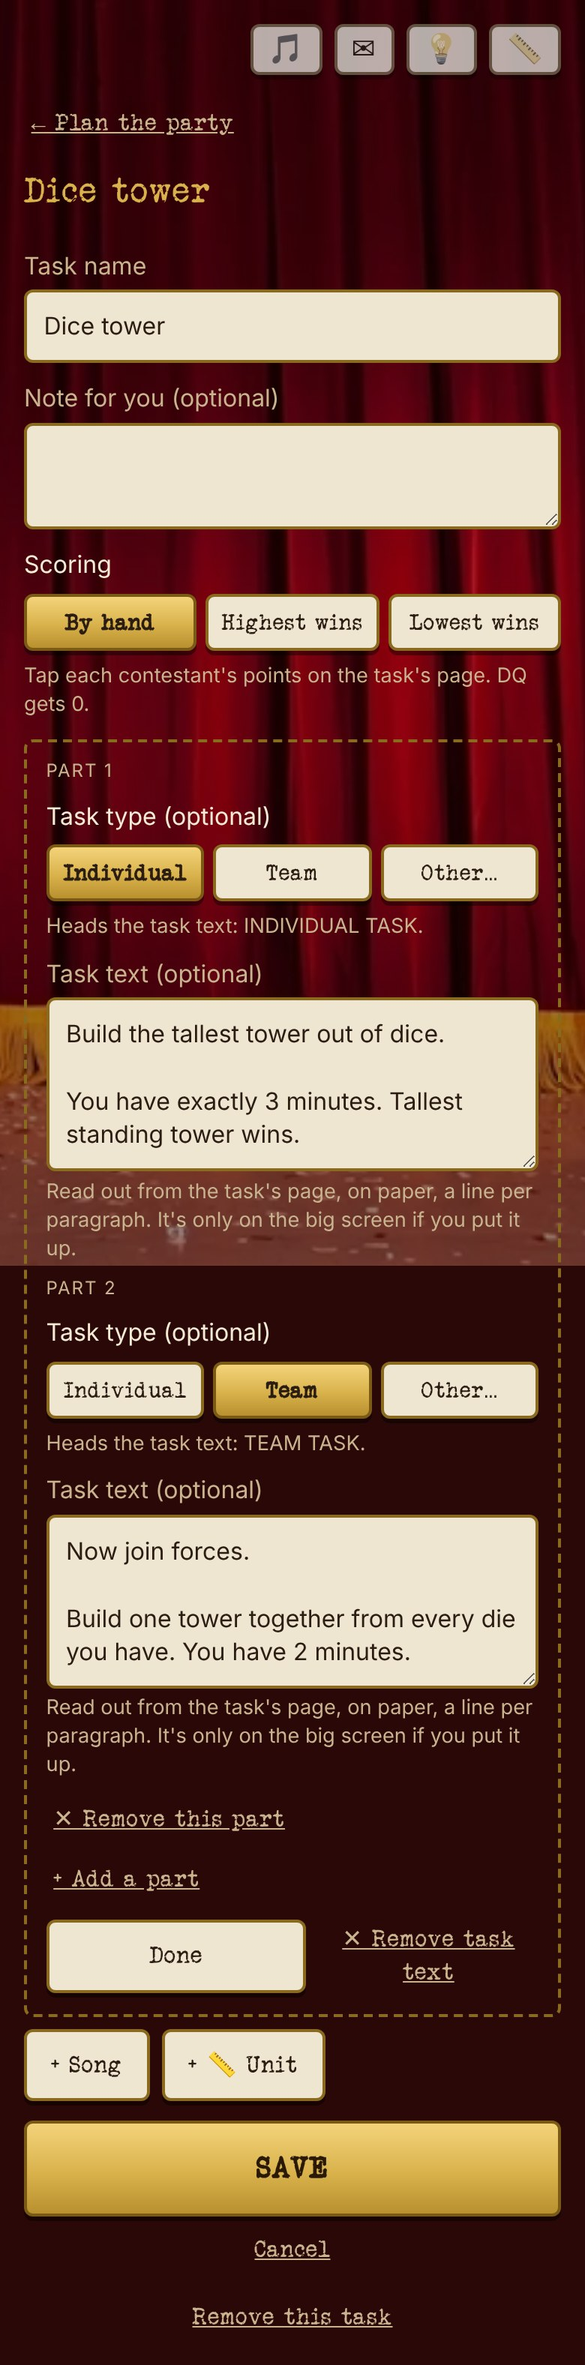
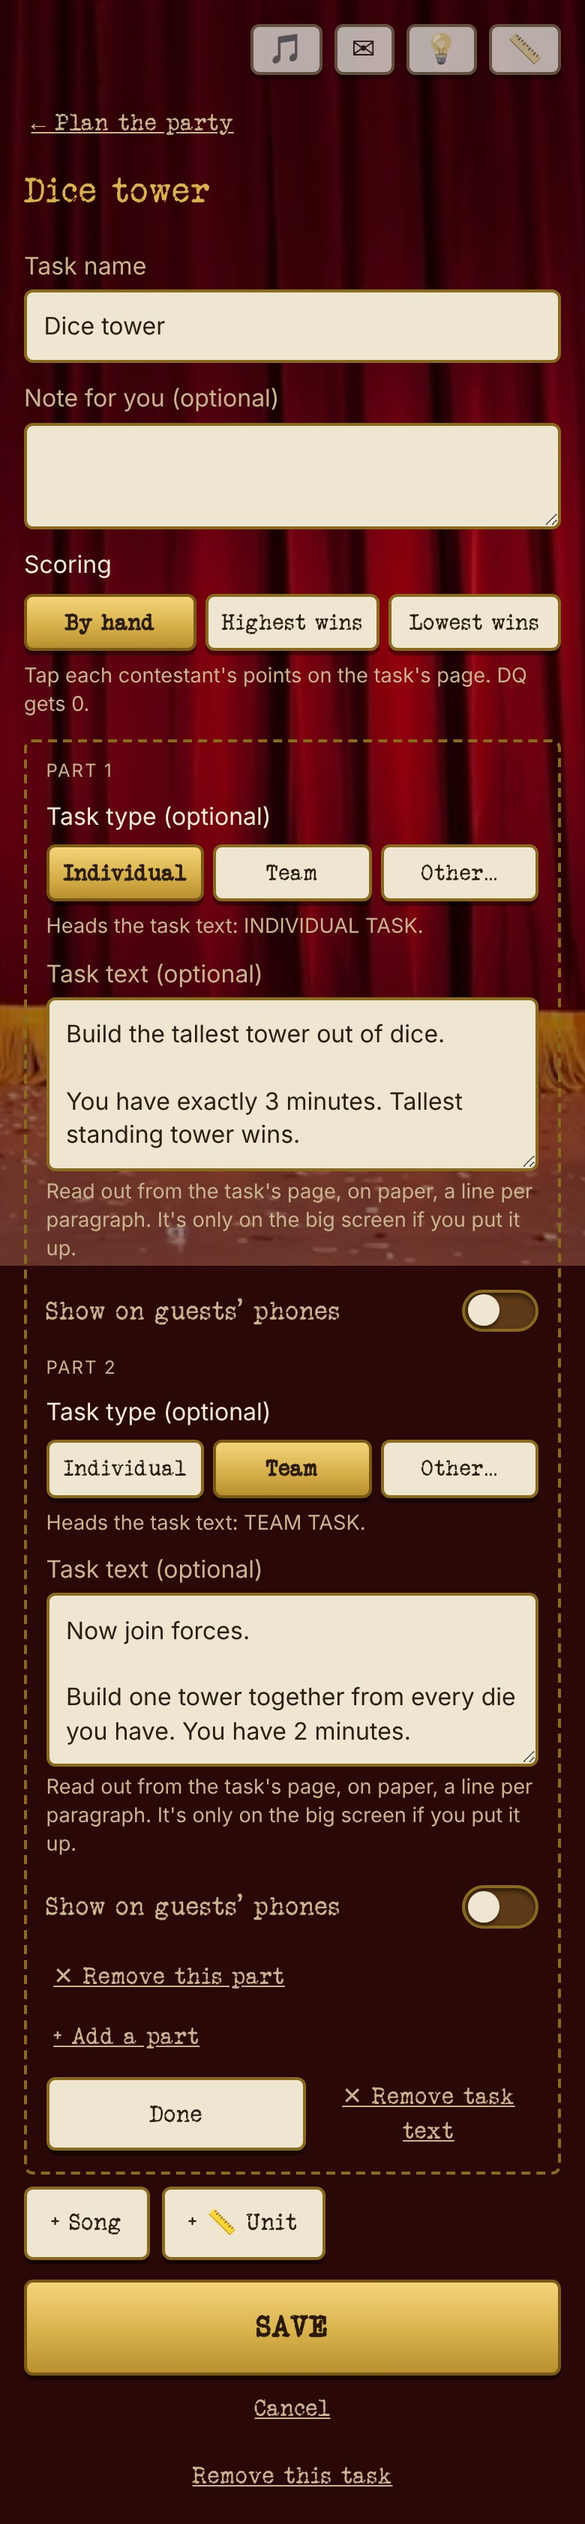
Task parts: phones show only the parts the host switched on
A "Show on guests' phones" switch under each part, off by default, on every task but the tiebreaker. Photos, Headshot and Prize still always show their first part; Headshot and Prize can't have more.

Claude-Session: https://claude.ai/code/session_017EZXwv2HsaVFnzxRVSaLaw

diff --git a/src/scoreboard/TaskEditPage.tsx b/src/scoreboard/TaskEditPage.tsx
@@ -5,7 +5,8 @@ import { SongField } from "../SongStrip";
 import type { ScoreboardTask, Session } from "../types";
 import { editTask, editTiebreaker, enterPoints, removeTask, setScoring, type TaskEntry } from "./data";
 import { isMeasured, overLine } from "./measured";
-import { asParts, gameName, scored, titleOf } from "./tasks";
+import { Toggle } from "../Toggle";
+import { ALWAYS_ON_PHONES, ONE_PART, asParts, gameName, scored, titleOf } from "./tasks";
 import { TaskTextField, TaskTypeField, TIEBREAKER_TYPE, typeOf } from "./TaskText";
 
 /** A task's words are at most this many parts (what the database rules allow). */
@@ -30,6 +31,11 @@ function ScoringField({ scoring, onChange }: { scoring: ScoreboardTask["scoring"
     </div>
   );
 }
+
+/** "Show on guests' phones" under a part's text: off unless the host switches it on, so phones show task text only when asked. */
+const PhonesToggle = ({ on, onChange }: { on: boolean; onChange: (on: boolean) => void }) => (
+  <div className="toggles"><Toggle label="Show on guests' phones" on={on} onChange={onChange} /></div>
+);
 
 /**
  * An optional part of a task: once it's set it's one summary line with "Change", which opens just that part in
@@ -72,7 +78,8 @@ export function TaskEditPage({ code, session, id, onBack }: { code: string; sess
   const [type, setType] = useState(task?.type ?? "");
   const [text, setText] = useState(task?.text ?? "");
   // Parts 2, 3…: each with a key of its own, so removing one in the middle doesn't hand its boxes to the next.
-  const [parts, setParts] = useState(() => asParts(task?.parts).map((p, k) => ({ k, type: p.type ?? "", text: p.text })));
+  const [parts, setParts] = useState(() => asParts(task?.parts).map((p, k) => ({ k, type: p.type ?? "", text: p.text, guests: !!p.guests })));
+  const [guests, setGuests] = useState(!!task?.guests);
   const nextKey = useRef(parts.length);
   const [unit, setUnit] = useState(() => draftOf(task?.unit));
   const [scoring, setScoringDraft] = useState(task?.scoring);
@@ -89,7 +96,7 @@ export function TaskEditPage({ code, session, id, onBack }: { code: string; sess
 
   const saved = unitOf(unit);
   const loud = unit.kind === "loudness";
-  const words = { type, text, parts: parts.map(({ type, text }) => ({ type, text })) };
+  const words = { type, text, guests, parts: parts.map(({ type, text, guests }) => ({ type, text, guests })) };
   const save = () => {
     if (tiebreaker) { void editTiebreaker(code, name, description, song, words); onBack(); return; }
     const rescored = !task.game && scoring !== task.scoring;
@@ -124,6 +131,8 @@ export function TaskEditPage({ code, session, id, onBack }: { code: string; sess
   const songAt = tracks.indexOf(song);
   const heading = tiebreaker ? `${type || TIEBREAKER_TYPE}`.toUpperCase() : typeOf({ type, game: task.game }).toUpperCase();
   const firstLine = text.split("\n").map((l) => l.trim()).find(Boolean) ?? "";
+  // No phone ever shows the tiebreaker.
+  const phoneSwitch = !tiebreaker;
   const typed = parts.filter((p) => p.text.trim());
   const count = (text.trim() ? 1 : 0) + typed.length;
   const headings = [...(text.trim() ? [heading] : []), ...typed.map((p) => p.type.trim().toUpperCase())].filter(Boolean);
@@ -150,7 +159,7 @@ export function TaskEditPage({ code, session, id, onBack }: { code: string; sess
 
       <div className="extras">
         <Extra label="Task text" open={open === "text"} onOpen={() => setOpen("text")} onClose={() => setOpen(undefined)}
-          onClear={clear(() => { setText(""); setType(""); setParts([]); })}
+          onClear={clear(() => { setText(""); setType(""); setGuests(false); setParts([]); })}
           summary={count > 1
             ? <>Task text<span className="muted small"> · {count} parts · {headings.join(", ") || "no headings"}</span></>
             : text.trim() ? <>Task text<span className="muted small"> · {heading || "no heading"} · {firstLine.length > 40 ? `${firstLine.slice(0, 40)}…` : firstLine}</span></> : undefined}>
@@ -158,17 +167,19 @@ export function TaskEditPage({ code, session, id, onBack }: { code: string; sess
             {parts.length > 0 && <p className="part-label">Part 1</p>}
             <TaskTypeField type={type} fallback={(tiebreaker ? TIEBREAKER_TYPE : typeOf({ game: task.game })) || undefined} onChange={setType} />
             <TaskTextField text={text} onChange={setText} />
+            {phoneSwitch && !(task.game && ALWAYS_ON_PHONES.includes(task.game)) && <PhonesToggle on={guests} onChange={setGuests} />}
           </div>
           {parts.map((p, i) => (
             <div className="sb-part" key={p.k}>
               <p className="part-label">Part {i + 2}</p>
               <TaskTypeField type={p.type} onChange={(t) => setParts(parts.map((x) => x.k === p.k ? { ...x, type: t } : x))} />
               <TaskTextField text={p.text} onChange={(t) => setParts(parts.map((x) => x.k === p.k ? { ...x, text: t } : x))} />
+              {phoneSwitch && <PhonesToggle on={p.guests} onChange={(on) => setParts(parts.map((x) => x.k === p.k ? { ...x, guests: on } : x))} />}
               <button type="button" className="link" onClick={() => setParts(parts.filter((x) => x.k !== p.k))}>✕ Remove this part</button>
             </div>
           ))}
-          {parts.length + 1 < MAX_PARTS && (
-            <button type="button" className="link" onClick={() => setParts([...parts, { k: nextKey.current++, type: "", text: "" }])}>+ Add a part</button>
+          {parts.length + 1 < MAX_PARTS && !(task.game && ONE_PART.includes(task.game)) && (
+            <button type="button" className="link" onClick={() => setParts([...parts, { k: nextKey.current++, type: "", text: "", guests: false }])}>+ Add a part</button>
           )}
         </Extra>
         <Extra label="Song" open={open === "song"} onOpen={() => setOpen("song")} onClose={() => setOpen(undefined)} onClear={clear(() => setSong(""))}

diff --git a/src/setupImport.ts b/src/setupImport.ts
@@ -22,7 +22,7 @@ const str = (v: unknown, max: number) => typeof v === "string" && v.trim() ? v.t
 /** The parts after a task's first: each with text, and its type if it has one, at most as many as the database rules allow. */
 const MAX_PARTS = 9;
 const partsOf = (v: unknown): TaskPart[] => Array.isArray(v)
-  ? v.filter(obj).flatMap((p) => str(p.text, 5000) ? [{ ...(str(p.type, 30) && { type: str(p.type, 30) }), text: str(p.text, 5000)! }] : []).slice(0, MAX_PARTS)
+  ? v.filter(obj).flatMap((p) => str(p.text, 5000) ? [{ ...(str(p.type, 30) && { type: str(p.type, 30) }), text: str(p.text, 5000)!, ...(p.guests === true && { guests: true as const }) }] : []).slice(0, MAX_PARTS)
   : [];
 
 /** The words a task or the tiebreaker carries, kept to the lengths the database rules allow. */
@@ -32,6 +32,7 @@ function wordsOf(raw: Record<string, unknown>) {
     ...(str(raw.type, 30) && { type: str(raw.type, 30) }),
     ...(str(raw.text, 5000) && { text: str(raw.text, 5000) }),
     ...(partsOf(raw.parts).length > 0 && { parts: partsOf(raw.parts) }),
+    ...(raw.guests === true && { guests: true as const }),
     ...(str(raw.note, 600) && { note: str(raw.note, 600) }),
     ...(str(raw.song, 300) && { song: str(raw.song, 300) }),
   };
@@ -104,9 +105,9 @@ export interface ImportPlan {
 const hasPoints = (t: ScoreboardTask) => ["scores", "results", "given", "bonus", "dq"].some((k) => Object.keys((t as unknown as Record<string, object | undefined>)[k] ?? {}).length > 0);
 
 /** The party fields a file task sets: each is written, or cleared when the file doesn't have it. Points and results are never among them. */
-const FIELDS = ["name", "game", "type", "text", "parts", "description", "song", "scoring", "unit", "dqOver", "dqStays"] as const;
+const FIELDS = ["name", "game", "type", "text", "parts", "guests", "description", "song", "scoring", "unit", "dqOver", "dqStays"] as const;
 const fieldsOf = (t: SetupTask): Record<(typeof FIELDS)[number], unknown> => ({
-  name: t.name, game: t.game, type: t.type, text: t.text, parts: t.parts, description: t.note, song: t.song, scoring: t.scoring, unit: t.unit, dqOver: t.dqOver, dqStays: t.dqStays,
+  name: t.name, game: t.game, type: t.type, text: t.text, parts: t.parts, guests: t.guests, description: t.note, song: t.song, scoring: t.scoring, unit: t.unit, dqOver: t.dqOver, dqStays: t.dqStays,
 });
 const sameValue = (a: unknown, b: unknown) => JSON.stringify(a ?? null) === JSON.stringify(b ?? null);
 
@@ -179,7 +180,7 @@ export function importWrites(setup: Setup, session: Session, secret: SecretTasks
     board["tiebreaker/song"] = tb.song ?? null;
     board["tiebreaker/type"] = tb.type ?? null;
     board["tiebreaker/text"] = tb.text ?? null;
-    board["tiebreaker/parts"] = tb.parts ?? null;
+    board["tiebreaker/parts"] = tb.parts?.map(({ guests: _, ...p }) => p) ?? null; // no phone ever shows the tiebreaker
   }
   const light = setup.light && { trigger: setup.light.trigger ?? null, mode: setup.light.mode ?? null };
   let secretPatch: Record<string, unknown> | undefined;

diff --git a/src/scoreboard/data.ts b/src/scoreboard/data.ts
@@ -108,15 +108,15 @@ export async function addKeptGame(code: string, session: Session, game: "light" 
   await enterPoints(code, { ...board, tasks: { ...board?.tasks, [id]: added } }, session.display?.step === "scoreboard", id, entry);
 }
 
-/** What a task's ✎ saves as its words: its type and the text the host reads out, then the parts after the first. Empty removes them. */
-export interface TaskWords { type: string; text: string; parts?: { type: string; text: string }[] }
-function wordsOf({ type, text, parts = [] }: TaskWords) {
+/** What a task's ✎ saves as its words: its type and the text the host reads out, whether phones show it, then the parts after the first. Empty removes them. */
+export interface TaskWords { type: string; text: string; guests?: boolean; parts?: { type: string; text: string; guests?: boolean }[] }
+function wordsOf({ type, text, guests, parts = [] }: TaskWords) {
   // A part with no text is no part; if the first has none, the next one is the first.
-  const all = [{ type, text }, ...parts].map((p) => ({ type: p.type.trim(), text: p.text.trim() })).filter((p) => p.text);
+  const all = [{ type, text, guests }, ...parts].map((p) => ({ type: p.type.trim(), text: p.text.trim(), guests: !!p.guests })).filter((p) => p.text);
   const [first, ...rest] = all;
   return {
-    type: first?.type || null, text: first?.text || null,
-    parts: rest.length ? rest.map((p) => ({ ...(p.type && { type: p.type }), text: p.text })) : null,
+    type: first?.type || null, text: first?.text || null, guests: first?.guests ? true : null,
+    parts: rest.length ? rest.map((p) => ({ ...(p.type && { type: p.type }), text: p.text, ...(p.guests && { guests: true }) })) : null,
   };
 }
 

diff --git a/docs/guest-shots/shots.tsx b/docs/guest-shots/shots.tsx
@@ -64,6 +64,11 @@ function build() {
     text: "Build the tallest tower out of dice.\n\nYou have exactly 3 minutes. Tallest standing tower wins.",
     parts: [{ type: "Team", text: "Now join forces.\n\nBuild one tower together from every die you have. You have 2 minutes." }],
   };
+  // A Photos task with three parts: the phone shows the first, and the second because the host switched it on, never the third.
+  if (shot === "task-photos-parts") tasks.t2 = {
+    ...(tasks.t2 as object),
+    parts: [{ text: "Bonus: do it again, but with a friend in the shot.", guests: true }, { text: "Third part, for the host to read out only." }],
+  };
   const session: Record<string, unknown> = {
     hostUid: "host", name: "Halloween party",
     players: Object.fromEntries(ids.filter((id) => checkedIn.has(id)).map((id, i) => [id, { name: people[id], joinedAt: i, contestant: id }])),
@@ -82,6 +87,7 @@ function build() {
     case "home-prize-ask": picked(); break;
     case "home-waiting": picked(); q.set("later", "1"); break;
     case "task-photos": picked(); q.set("later", "1"); task("photos"); g.photos!.task = "t2"; break;
+    case "task-photos-parts": picked(); q.set("later", "1"); task("photos"); g.photos!.task = "t2"; break;
     case "task-photos-sent": picked(); q.set("later", "1"); task("photos"); g.photos!.task = "t2"; (g.photos!.media as Record<string, unknown>)[who] = { photo: pic("👑", "#3a2a1c") }; break;
     case "prize-check": picked(); q.set("pick", "1"); break;
     case "noisemaster-up": picked(); q.set("later", "1"); task("noisemaster"); g.noisemaster = { round: { player: who, phrase: ["I", "am", "the", "Noisemaster"], startedAt: 1 } }; break;

diff --git a/src/scoreboard/tasks.ts b/src/scoreboard/tasks.ts
@@ -8,6 +8,21 @@ export const sorted = <T extends { order: number }>(items: Record<string, T> | u
 /** A task's parts after the first. The database hands them back as an object when it keeps them as one (a list is only kept as one while it has no gaps). */
 export const asParts = (v: unknown): TaskPart[] => (Array.isArray(v) ? v : Object.values((v ?? {}) as Record<string, TaskPart>)) as TaskPart[];
 
+/**
+ * What a guest's phone may show of a task's words, a quote each. Photos, Headshot and Prize always show part 1 (Headshot
+ * and Prize never have more; Photos' later parts only once switched on). Any other task shows only the parts the host switched on.
+ */
+export function guestWords(t: ScoreboardTask | undefined): string[] {
+  if (!t) return [];
+  const always = !!t.game && ALWAYS_ON_PHONES.includes(t.game);
+  return [{ text: t.text, on: always || !!t.guests }, ...asParts(t.parts).map((p) => ({ text: p.text, on: !!p.guests }))]
+    .flatMap((p) => (p.on && p.text?.trim() ? [p.text.trim()] : []));
+}
+
+/** App games whose words a phone always shows, so there's no phones switch on part 1. Headshot and Prize never have a second part. */
+export const ALWAYS_ON_PHONES: readonly TaskGame[] = ["photos", "headshots", "prize"];
+export const ONE_PART: readonly TaskGame[] = ["headshots", "prize"];
+
 /** An app game's name on the task list. */
 export const LIGHT = "💡 The light";
 export const gameName = (g: TaskGame) => g === "light" ? LIGHT : GAMES[g]?.name ?? g;

diff --git a/src/guest.tsx b/src/guest.tsx
@@ -1,6 +1,6 @@
 import { createContext, useContext, type CSSProperties, type ReactNode } from "react";
 import { GAMES } from "./games";
-import { activeTaskId, sorted } from "./scoreboard/tasks";
+import { activeTaskId, guestWords, sorted } from "./scoreboard/tasks";
 import type { Session } from "./types";
 
 /**
@@ -12,8 +12,8 @@ import type { Session } from "./types";
 
 /** What a game's card needs from the page around it. */
 export interface GuestFrame {
-  /** The task that's on, as its card is headed: "Task 2 of 8 · Photos", its name, and its words where they belong on a phone. */
-  task?: { label: string; title?: string; text?: string };
+  /** The task that's on, as its card is headed: "Task 2 of 8 · Photos", its name, and its words (a quote each) where they belong on a phone. */
+  task?: { label: string; title?: string; words: string[] };
   /** How many things are left on the guest's to-do list. */
   left: number;
 }
@@ -38,7 +38,7 @@ export function taskOn(session: Session): GuestFrame["task"] {
   return {
     label: i >= 0 ? `Task ${i + 1} of ${tasks.length} · ${game.name}` : game.name,
     title: name ? name[0]!.toUpperCase() + name.slice(1) : undefined,
-    text: t?.text?.trim() || undefined,
+    words: guestWords(t),
   };
 }
 

diff --git a/src/types.ts b/src/types.ts
@@ -237,7 +237,7 @@ export interface ScoreboardContestant {
 }
 
 /** One more part of a task's words after the first: its own type (so its own heading) and the text the host reads out. */
-export interface TaskPart { type?: string; text: string }
+export interface TaskPart { type?: string; text: string; guests?: true }
 
 /** A task on the party's scoreboard: a live task the host names, or an app game. Never tied to a game's own data. */
 export interface ScoreboardTask {
@@ -256,6 +256,8 @@ export interface ScoreboardTask {
   text?: string;
   /** Parts 2, 3… of the words, each with its own type. `type` and `text` above are part 1. Only the host remote ever says "part". */
   parts?: TaskPart[];
+  /** Part 1 of the words is switched on for guests' phones (a task's parts are off there until the host switches them on). */
+  guests?: true;
   /**
    * Points by contestant id: what counts, worked out from `given`, `results` and `dq` by `workOut`, plus any `bonus`, and
    * saved with them. A contestant with none gets nothing for this task.

diff --git a/src/setupFile.ts b/src/setupFile.ts
@@ -17,6 +17,8 @@ export interface SetupTask {
   text?: string;
   /** Parts 2, 3… of the words; `type` and `text` are part 1. */
   parts?: TaskPart[];
+  /** Part 1 is switched on for guests' phones. */
+  guests?: true;
   note?: string;
   song?: string;
   scoring?: "highest" | "lowest";
@@ -44,6 +46,7 @@ const taskOf = (t: ScoreboardTask): Omit<SetupTask, "id"> => ({
   ...(t.type && { type: t.type }),
   ...(t.text && { text: t.text }),
   ...(asParts(t.parts).length > 0 && { parts: asParts(t.parts) }),
+  ...(t.guests && { guests: true as const }),
   ...(t.description && { note: t.description }),
   ...(t.song && { song: t.song }),
   ...(t.scoring && { scoring: t.scoring }),

diff --git a/src/games/photos/PlayerView.tsx b/src/games/photos/PlayerView.tsx
@@ -30,7 +30,7 @@ export function PlayerView({ code, uid, session }: { code: string; uid: string; 
   const { task, left } = useGuest();
   const label = task?.label ?? "Photos";
   const title = task?.title ?? "Your photo";
-  const words = task?.text && <Quote text={task.text} />;
+  const words = task?.words.map((w, i) => <Quote key={i} text={w} />);
 
   // A phone that locks mid-upload can stall it.
   useKeepAwake(uploading);

diff --git a/docs/style-guide.md b/docs/style-guide.md
@@ -209,7 +209,7 @@ See: [guest-home-waiting.jpg](screens/guest-home-waiting.jpg), [guest-home-prize
   - **Points**, always open at the bottom (`Points.tsx`), and once everyone has points, gold "Done: back to Run of show →".
   A game that's not on the list uses the same page with no number and no points ("Not on the run of show, so it isn't scored"), and the tiebreaker's page has the same top, with the tied contestants under its title.
 - **The tiebreaker's bar** (`.sb-won-bar`): on the tiebreaker's page only, "Tap who won." and the tied contestants side by side sit in a burgundy bar with a 3px `--gold` top border, fixed to the bottom of the screen, so the winner is one tap away however far the story has scrolled. Tapping who won scrolls back up to gold "🎁 Show the prize haul · Sam" under the status line. Other tasks are scored after the reading, so they have no bar. See: [tiebreaker-host-text.jpg](screens/tiebreaker-host-text.jpg), [tiebreaker-host-text-won.jpg](screens/tiebreaker-host-text-won.jpg).
-- **Task type and text in ✎** (`TaskText.tsx`): under "Task text", "Task type (optional)" as `.choices` (Individual, Team, Other… for the host's own word) with a muted line spelling out the heading, then "Task text (optional)", a plain box that grows with what's pasted. See: [run-of-show-host-task-text-edit.jpg](screens/run-of-show-host-task-text-edit.jpg). A quiet **"+ Add a part"** link under the box adds another type and text, for the tiebreaker too (up to 10 parts). From the second part on, each part shows a small host-only label (`.part-label`: "PART 1", "PART 2", muted small capitals) and a quiet "✕ Remove this part"; a task with one part looks as it always did. Closed, the summary line counts them: "Task text · 2 parts · INDIVIDUAL, TEAM". The setup file keeps parts. See: [task-parts-edit.jpg](screens/task-parts-edit.jpg).
+- **Task type and text in ✎** (`TaskText.tsx`): under "Task text", "Task type (optional)" as `.choices` (Individual, Team, Other… for the host's own word) with a muted line spelling out the heading, then "Task text (optional)", a plain box that grows with what's pasted. See: [run-of-show-host-task-text-edit.jpg](screens/run-of-show-host-task-text-edit.jpg). A quiet **"+ Add a part"** link under the box adds another type and text, for the tiebreaker too (up to 10 parts). From the second part on, each part shows a small host-only label (`.part-label`: "PART 1", "PART 2", muted small capitals) and a quiet "✕ Remove this part"; a task with one part looks as it always did. Closed, the summary line counts them: "Task text · 2 parts · INDIVIDUAL, TEAM". Headshot and Prize never have a second part, so they have no "+ Add a part". **Phones rarely show task text**: under each part's text box a `<Toggle>` "Show on guests' phones" is off until the host switches it on, and a phone shows only the parts switched on, a quote each, never any other (the tiebreaker has no such switch: no phone shows it). Photos, Headshot and Prize always show their first part on a phone, so part 1 has no switch there; a second Photos part needs its own. The setup file keeps parts and their switches. See: [task-parts-edit.jpg](screens/task-parts-edit.jpg), [guest-task-photos-parts.jpg](screens/guest-task-photos-parts.jpg).
 - **Plan the party** (`Planning.tsx`): everything set up before the night, behind the link at the bottom of Run of show, in the order you'd do it. Not for use mid-show, so ✕ and ≡ are safe here.
   1. **The party** as a summary line (`PartySummary`): "Halloween party · portrait set · pin set · metric" with Change, which opens its name, portrait, host pin and "📏 Conversions in" (Metric · Imperial as `.choices.two`, metric by default, with a muted line saying what it changes) in place. See: [host-party-units.jpg](screens/host-party-units.jpg).
   2. `Tasks (N)`: `≡` (drag to reorder), the task's name (number, "· app game", the note in quotes, "5 contestants scored") and `✎`, which opens the task's own page. No ▶ Start: starting is Run of show's job. Under the list "+ Live task" and "+ App game" side by side, then the **tiebreaker as a summary line** (outside the running order) with its own ✎.

diff --git a/docs/screens/README.md b/docs/screens/README.md
@@ -22,6 +22,7 @@ Guest phone (`/play`, 390px wide), redrawn on 2026-10-18 in the host remote's la
 | `guest-home-waiting.jpg` | Nothing left to do: Sam's own name tag, "Put your phone away. People are starting to stare.", the to-do list with the prize "optional" |
 | `guest-task-photos.jpg` | A task on: "Task 2 of 8 · Photos", the task's words, the photo controls inside the card, "It's task time. Send your photo." |
 | `guest-task-photos-sent.jpg` | The receipt after sending: "✓ Submitted", the photo, the 🔒 line, "Photo sent. Put your phone away…" |
+| `guest-task-photos-parts.jpg` | A Photos task with three parts: the phone shows the first and the second (the host switched it on for phones), and never the third (2026-10-18) |
 | `guest-prize-photos.jpg` | "Your prize photos": the prize words, thumbnails with ≡ ✕ ★, the ★ line, gold "Submit 3 photos" |
 | `guest-noisemaster-up.jpg` | "You're up!": the phrase and the board in the card |
 | `main-noisemaster.jpg` | Noisemaster on the big screen mid-go: the words said so far as gold tiles, the red board with the last button lit green, the player's name, the clock, "2 of 4 words" and "1 restart" (2026-10-18) |
@@ -131,7 +132,7 @@ Scoreboard (taken on 2026-10-12, from the real components with made-up sessions;
 | `task-parts-host.jpg` | A task with two parts: "Dice tower" with a paper "Show part 1" over its Individual card and "Show part 2" over its Team card, none gold, nothing up yet (2026-10-18) |
 | `task-parts-host-up.jpg` | The same with part 2 on the big screen: "On the big screen: the task, part 2", "Show part 2" pressed in (2026-10-18) |
 | `task-parts-main.jpg` | The big screen with part 2 up: only the TEAM TASK card, no word "part" (2026-10-18) |
-| `task-parts-edit.jpg` | The ✎ page with "Task text" open on a two-part task: PART 1 and PART 2 each with their type and text, "✕ Remove this part", "+ Add a part" (2026-10-18) |
+| `task-parts-edit.jpg` | The ✎ page with "Task text" open on a two-part task: PART 1 and PART 2 each with their type, text and a "Show on guests' phones" switch (off), "✕ Remove this part", "+ Add a part" (2026-10-18) |
 | `task-page-host-app-game.jpg` | An app game's page (Photos: best costume) with entries coming in: "Task 2 of 8 · app game", gold "First up: Sam →", Points at the bottom (2026-10-18) |
 | `task-page-host-points-done.jpg` | Everyone shown and scored: "All 5 shown." with "◫ Show everyone", Points with Priya's +1, gold "Done: back to Run of show →" (2026-10-18) |
 | `task-song-edit.jpg` | "Change" on the song summary line: "Song (optional)" opened with its picker and ✕, Done and "✕ Remove song", the other summary lines kept above and below (2026-10-18) |
